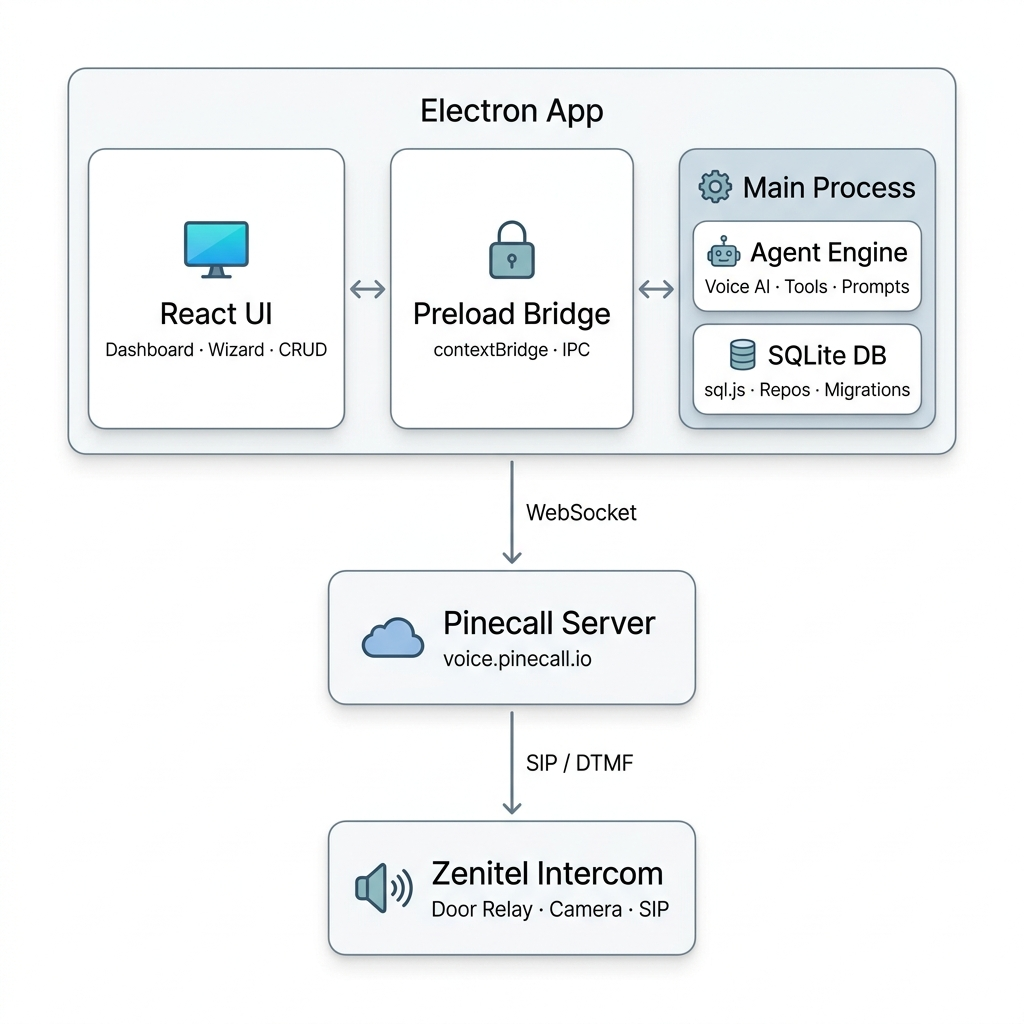
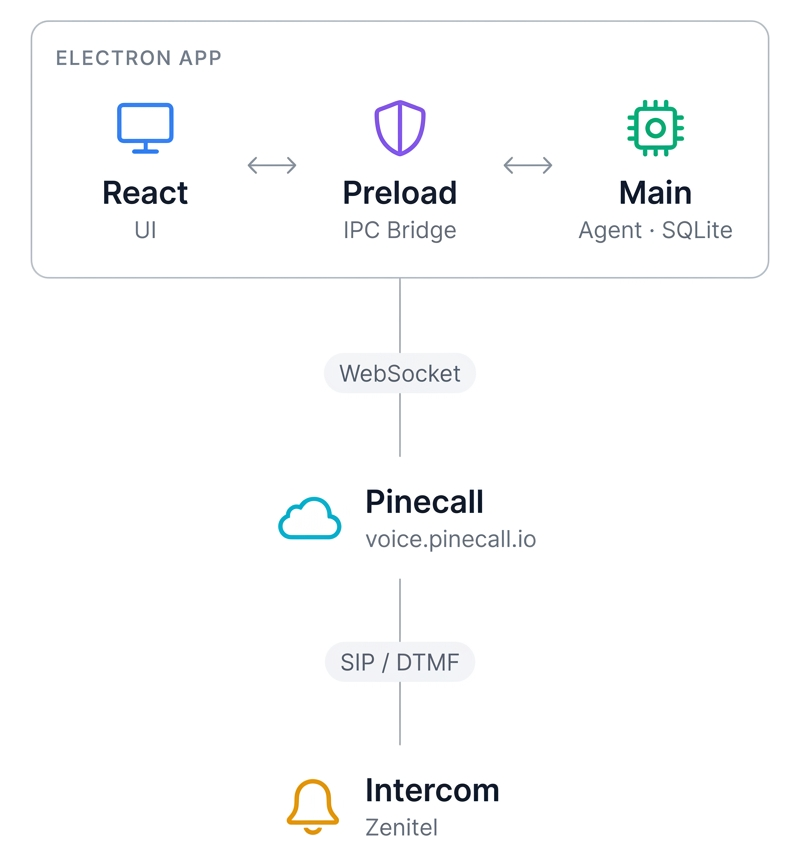
docs: architecture diagrams for README
- Architecture overview (Electron container with React/Preload/Main)
- Call flow (Intercom → SIP → Twilio → Pinecall ←→ Portia)
- IPC boundaries (Renderer → Preload → Main with Zod validation)
- Replaced all ASCII art with minimal white PNG diagrams

diff --git a/README.md b/README.md
@@ -22,31 +22,9 @@ Portia turns any Zenitel intercom into an intelligent building access system —
 
 ### Call Flow
 
-```
-Intercom → SIP → Twilio → Pinecall Server ←WebSocket→ Portia (Main Process)
-                                                            │
-                                                  ┌─────────┤
-                                                  ▼         ▼
-                                               Agent     SQLite DB
-                                             (events,    (visits, codes,
-                                              tools)      team, config)
-                                                  │
-                                                  ▼
-                                            TcivClient → Zenitel Intercom
-                                              (DTMF relay, SIP, camera)
-```
-
-### IPC Contract Boundaries
-
-```
-  Renderer (React)         Preload Bridge         Main Process
-  ┌──────────────┐        ┌────────────┐        ┌──────────────────┐
-  │ Zustand      │──IPC──►│ window.    │──IPC──►│ Zod validation   │
-  │ stores       │        │ portia.*   │        │ (safeParse)      │
-  │              │◄──IPC──│            │◄──IPC──│                  │
-  │ useAgent()   │  events│            │  emit  │ CallEvent union  │
-  └──────────────┘        └────────────┘        └──────────────────┘
-```
+<p align="center">
+  <img src="docs/call-flow.png" alt="Call Flow" width="700" />
+</p>
 
 ## Prerequisites
 
